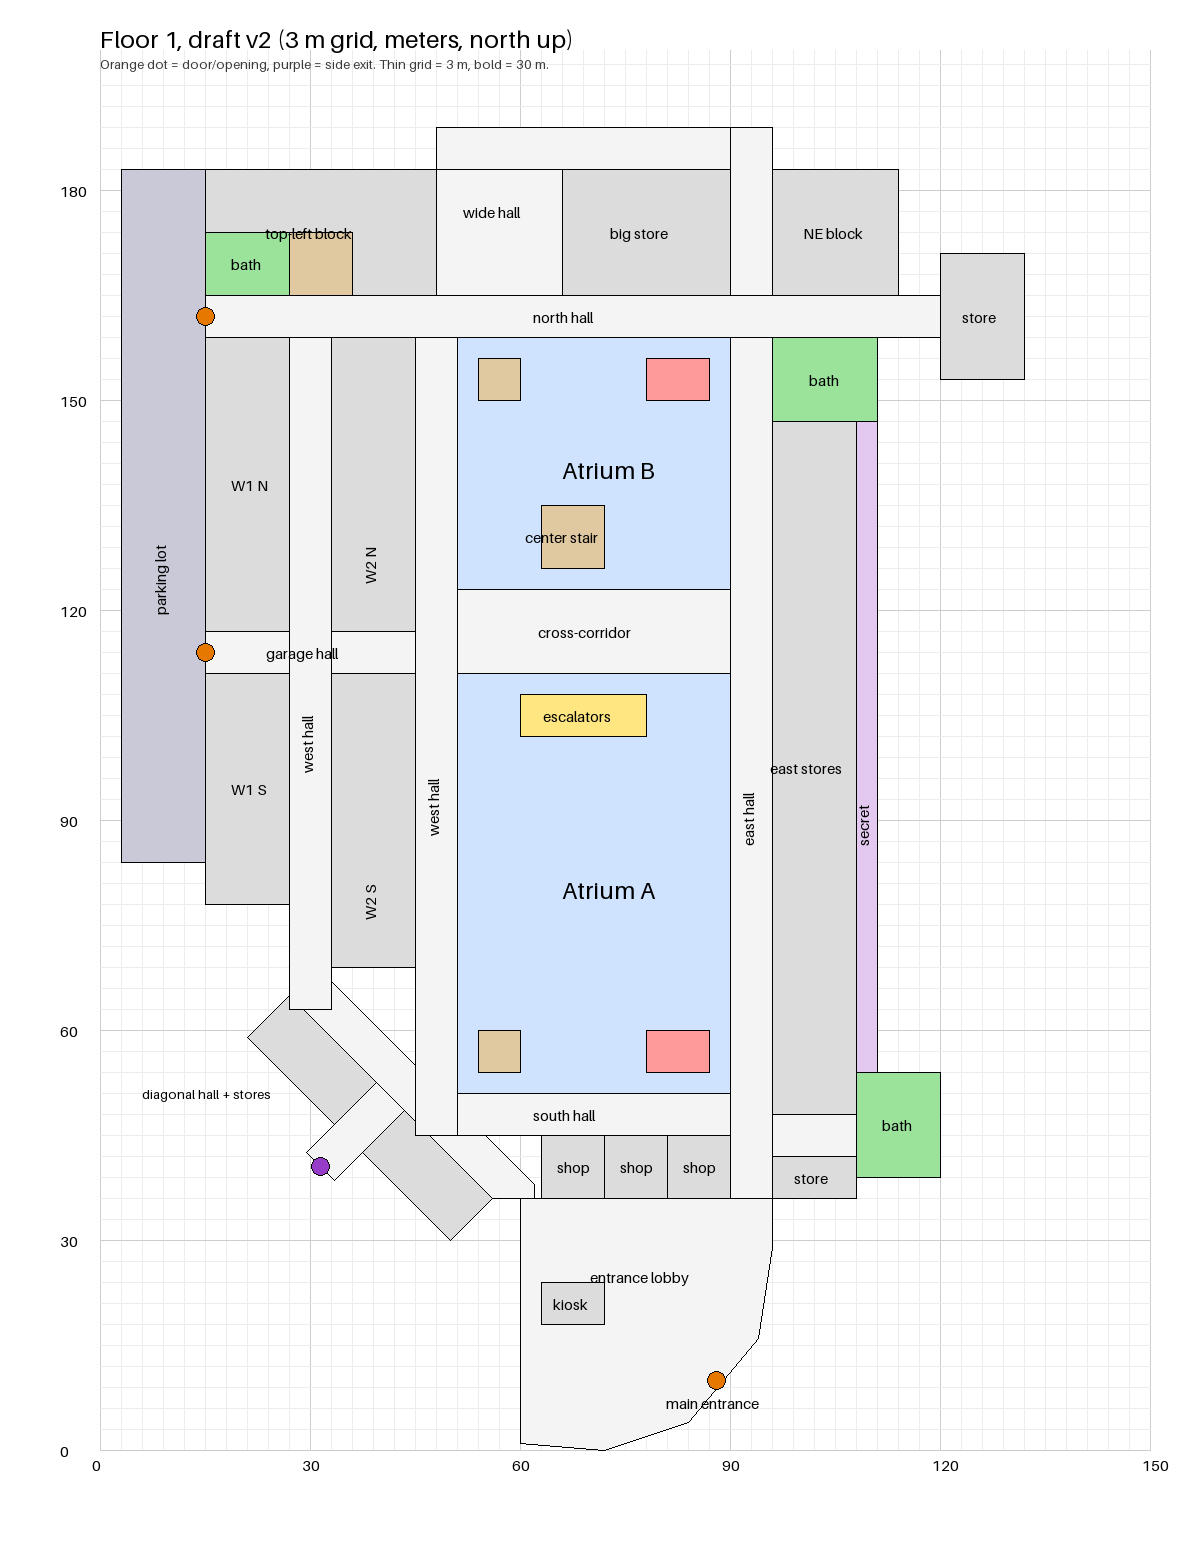
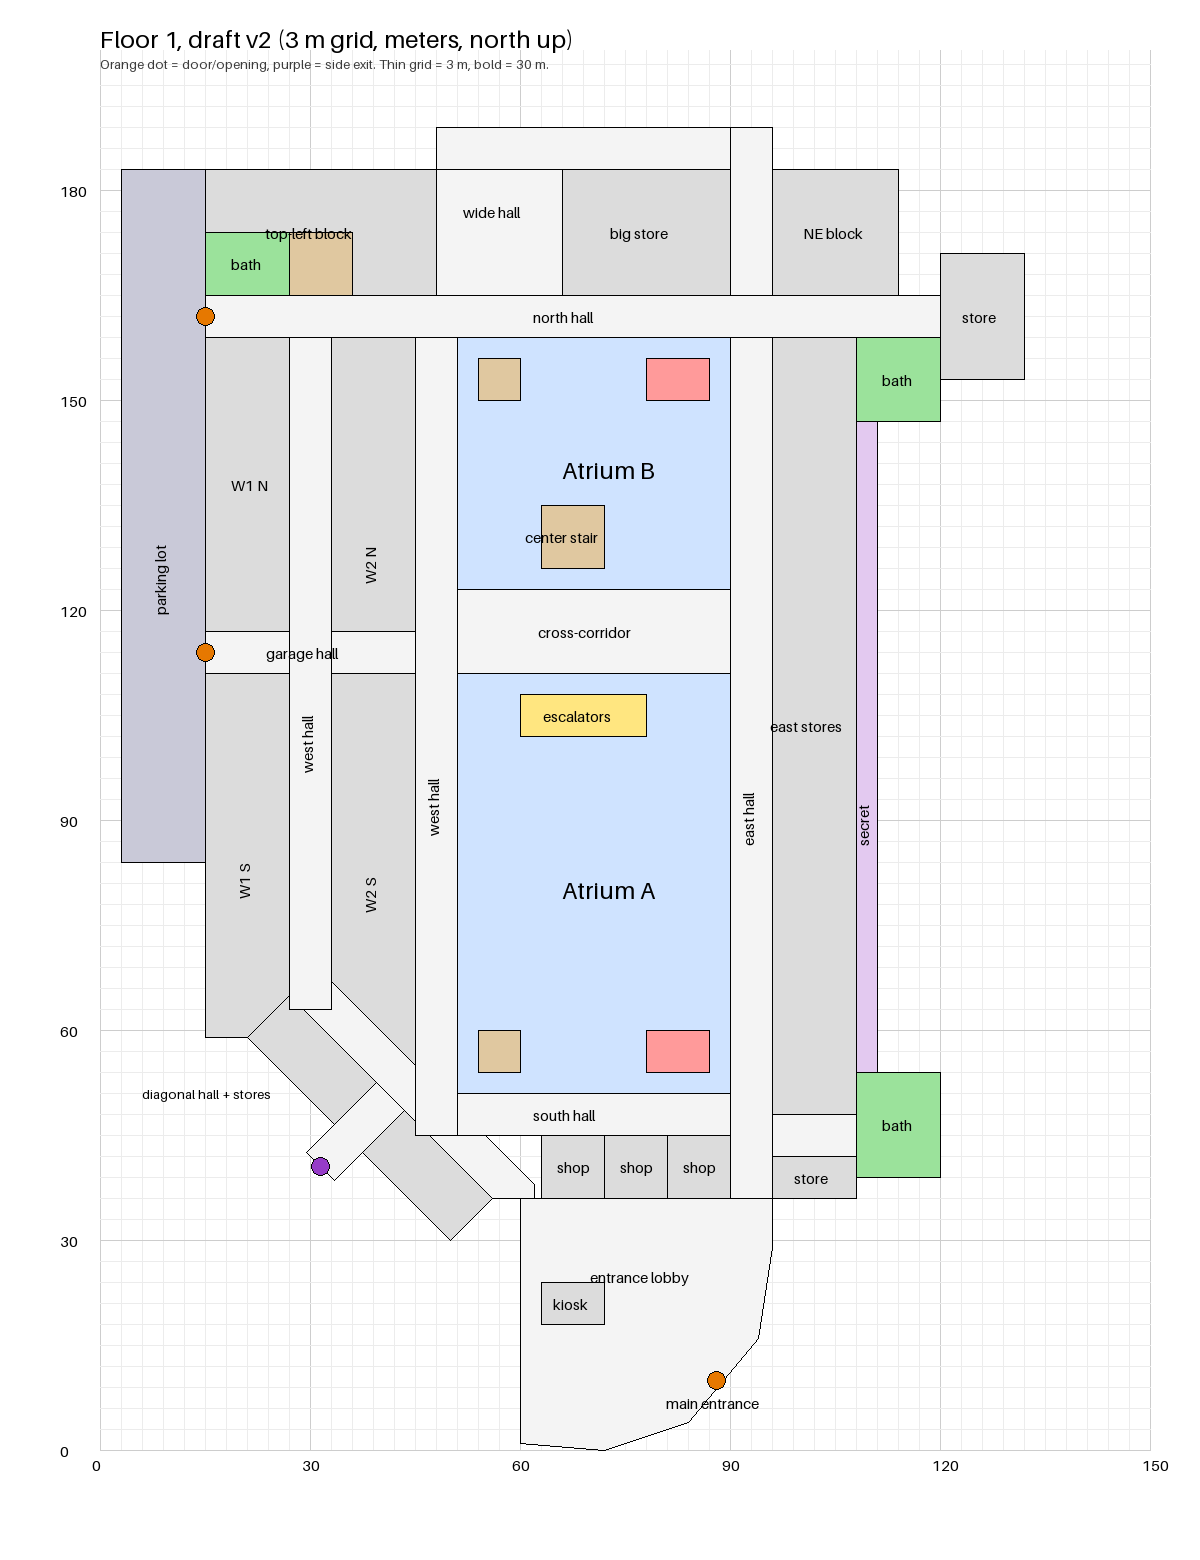
floor 1 plan update

diff --git a/docs/floorplans/floor1_notes.md b/docs/floorplans/floor1_notes.md
@@ -99,6 +99,8 @@ Files: `floor1_plan_v2.png` and `floor1_plan_v2.json` (v1 is kept for comparison
 - **Off-grid on purpose:** only the south-west diagonal hall. It is now exactly 45 degrees, no longer tied to the real outline (the outline is dropped from the picture). It starts at the bottom of the outer west hall, crosses the junction of the inner west hall and the south hall, and ends at the lobby's north-west corner. The stores sit on its south-west side, with the short hall to the purple exit in the middle.
 - **Not modeled yet:** doors into stores and bathrooms, wall thickness, and the stores' interiors.
 
+**v2 adjustments after review:** the east stores run all the way up to the north hall, and the NE bathrooms sit east of them (x 108 to 120) with their door on the north hall. W1 S now runs down to meet the south-west diagonal stores, and W2 S runs down to the diagonal hall, ending where the outer west hall meets it.
+
 ## Open questions
 
 1. **Scale.** Measured from the real building outline; see "Scale check". Decision needed on how to use it.
